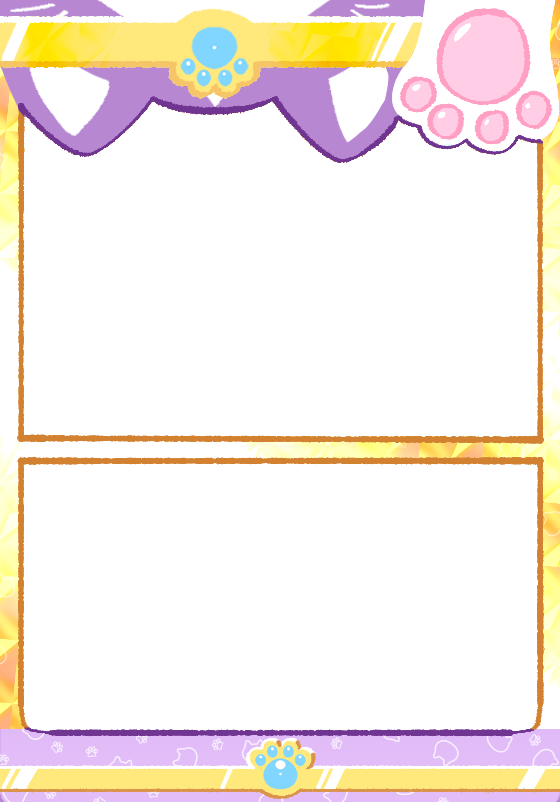
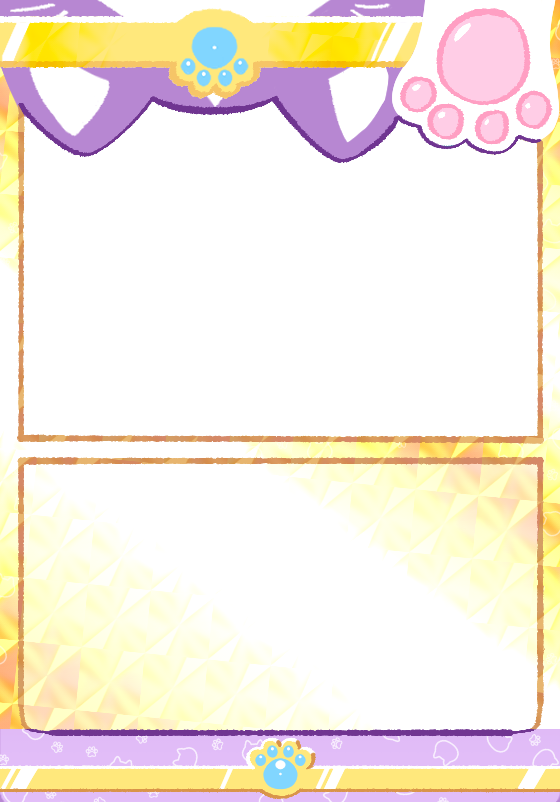
カードフレーム追加（規約・サポート・クリエイター系）+ 99割サブタイプ修正
- 規約/規約レア/サポート/サポートレア/サポートUR/クリエイター/クリエイターレアのフレーム追加
- エンチャントレア・クリーチャーレアのフレーム修正版適用
- cards.html全カードにフレーム反映
- client.jsにフレーム選択ロジック追加
- 99割のsubtype: ['規約']→['サポート']に修正

Changed region(s): [[0.0304, 0.1247, 0.9714, 0.9352]]

diff --git a/client/cards.html b/client/cards.html
@@ -344,7 +344,7 @@
 </div>
 
 <div class="card card-support card-framed">
-  <img class="card-frame-img" src="img/card_frame.png">
+  <img class="card-frame-img" src="img/card_frame_support.png">
   <div class="card-frame-name">思考盗聴された！</div>
   <div class="card-frame-cost">0</div>
   <div class="card-frame-art"><img src="img/shiko_touchou.png" style="width:100%;height:100%;object-fit:cover;"></div>
@@ -355,7 +355,7 @@
 </div>
 
 <div class="card card-support card-framed">
-  <img class="card-frame-img" src="img/card_frame.png">
+  <img class="card-frame-img" src="img/card_frame_support.png">
   <div class="card-frame-name">閑話休題</div>
   <div class="card-frame-cost">5</div>
   <div class="card-frame-art"><img src="img/kanwa_kyuudai.png" style="width:100%;height:100%;object-fit:contain;background:#1a1a2e;"></div>
@@ -366,7 +366,7 @@
 </div>
 
 <div class="card card-support card-framed">
-  <img class="card-frame-img" src="img/card_frame.png">
+  <img class="card-frame-img" src="img/card_frame_support_ur.png">
   <div class="card-frame-name">99割間違いない</div>
   <div class="card-frame-cost">9</div>
   <div class="card-frame-art"><img src="img/99wari.png" style="width:100%;height:100%;object-fit:cover;"></div>
@@ -743,7 +743,7 @@
 <div class="card-row">
 
 <div class="card card-support card-framed">
-  <img class="card-frame-img" src="img/card_frame.png">
+  <img class="card-frame-img" src="img/card_frame_creator.png">
   <div class="card-frame-name">サルベド猫</div>
   <div class="card-frame-cost">5</div>
   <div class="card-frame-art"><img src="img/salvado_cat.png" style="width:100%;height:100%;object-fit:cover;"></div>
@@ -754,7 +754,7 @@
 </div>
 
 <div class="card card-support card-framed">
-  <img class="card-frame-img" src="img/card_frame.png">
+  <img class="card-frame-img" src="img/card_frame_creator.png">
   <div class="card-frame-name">まっきーに</div>
   <div class="card-frame-cost">5</div>
   <div class="card-frame-art"><img src="img/makkinii.png" style="width:100%;height:100%;object-fit:cover;"></div>
@@ -765,7 +765,7 @@
 </div>
 
 <div class="card card-support card-framed">
-  <img class="card-frame-img" src="img/card_frame.png">
+  <img class="card-frame-img" src="img/card_frame_creator.png">
   <div class="card-frame-name">あかぽ</div>
   <div class="card-frame-cost">2</div>
   <div class="card-frame-art"><img src="img/akapo.jpg" style="width:100%;height:100%;object-fit:cover;"></div>
@@ -776,7 +776,7 @@
 </div>
 
 <div class="card card-support card-framed">
-  <img class="card-frame-img" src="img/card_frame.png">
+  <img class="card-frame-img" src="img/card_frame_creator.png">
   <div class="card-frame-name">ななせ</div>
   <div class="card-frame-cost">2</div>
   <div class="card-frame-art"><img src="img/nanase.png" style="width:100%;height:100%;object-fit:cover;"></div>
@@ -787,7 +787,7 @@
 </div>
 
 <div class="card card-support card-framed">
-  <img class="card-frame-img" src="img/card_frame.png">
+  <img class="card-frame-img" src="img/card_frame_creator.png">
   <div class="card-frame-name">ごも</div>
   <div class="card-frame-cost">4</div>
   <div class="card-frame-art"><img src="img/gomo.png" style="width:100%;height:100%;object-fit:cover;"></div>
@@ -798,7 +798,7 @@
 </div>
 
 <div class="card card-support card-framed">
-  <img class="card-frame-img" src="img/card_frame.png">
+  <img class="card-frame-img" src="img/card_frame_creator.png">
   <div class="card-frame-name">komi</div>
   <div class="card-frame-cost">1</div>
   <div class="card-frame-art"><img src="img/komi.png" style="width:100%;height:100%;object-fit:cover;"></div>
@@ -809,7 +809,7 @@
 </div>
 
 <div class="card card-support card-framed">
-  <img class="card-frame-img" src="img/card_frame.png">
+  <img class="card-frame-img" src="img/card_frame_creator.png">
   <div class="card-frame-name">山岩ヤシロ</div>
   <div class="card-frame-cost">4</div>
   <div class="card-frame-art"><img src="img/yashiro.png" style="width:100%;height:100%;object-fit:cover;"></div>
@@ -820,7 +820,7 @@
 </div>
 
 <div class="card card-support card-framed">
-  <img class="card-frame-img" src="img/card_frame.png">
+  <img class="card-frame-img" src="img/card_frame_creator.png">
   <div class="card-frame-name">かとりーな</div>
   <div class="card-frame-cost">4</div>
   <div class="card-frame-art"><img src="img/katorina.png" style="width:100%;height:100%;object-fit:cover;"></div>
@@ -831,7 +831,7 @@
 </div>
 
 <div class="card card-support card-framed">
-  <img class="card-frame-img" src="img/card_frame.png">
+  <img class="card-frame-img" src="img/card_frame_creator.png">
   <div class="card-frame-name">坂街透</div>
   <div class="card-frame-cost">3</div>
   <div class="card-frame-art"><img src="img/sakamachi.png" style="width:100%;height:100%;object-fit:cover;"></div>
@@ -842,7 +842,7 @@
 </div>
 
 <div class="card card-support card-framed">
-  <img class="card-frame-img" src="img/card_frame.png">
+  <img class="card-frame-img" src="img/card_frame_creator.png">
   <div class="card-frame-name">ひかる</div>
   <div class="card-frame-cost">2</div>
   <div class="card-frame-art"><img src="img/hikaru.png" style="width:100%;height:100%;object-fit:cover;"></div>
@@ -853,7 +853,7 @@
 </div>
 
 <div class="card card-support card-framed">
-  <img class="card-frame-img" src="img/card_frame.png">
+  <img class="card-frame-img" src="img/card_frame_creator.png">
   <div class="card-frame-name">おゆち</div>
   <div class="card-frame-cost">1</div>
   <div class="card-frame-art"><img src="img/oyuchi.png" style="width:100%;height:100%;object-fit:cover;"></div>
@@ -864,7 +864,7 @@
 </div>
 
 <div class="card card-support card-framed">
-  <img class="card-frame-img" src="img/card_frame.png">
+  <img class="card-frame-img" src="img/card_frame_creator.png">
   <div class="card-frame-name">NARI</div>
   <div class="card-frame-cost">2</div>
   <div class="card-frame-art"><img src="img/nari.png" style="width:100%;height:100%;object-fit:cover;"></div>
@@ -875,7 +875,7 @@
 </div>
 
 <div class="card card-support card-framed">
-  <img class="card-frame-img" src="img/card_frame.png">
+  <img class="card-frame-img" src="img/card_frame_creator.png">
   <div class="card-frame-name">愛つばめ</div>
   <div class="card-frame-cost">3</div>
   <div class="card-frame-art"><img src="img/ai_tsubame.png" style="width:100%;height:100%;object-fit:cover;"></div>
@@ -886,7 +886,7 @@
 </div>
 
 <div class="card card-support card-framed">
-  <img class="card-frame-img" src="img/card_frame.png">
+  <img class="card-frame-img" src="img/card_frame_creator.png">
   <div class="card-frame-name">いちこ</div>
   <div class="card-frame-cost">4</div>
   <div class="card-frame-art"><img src="img/ichiko.png" style="width:100%;height:100%;object-fit:cover;"></div>
@@ -897,7 +897,7 @@
 </div>
 
 <div class="card card-support card-framed">
-  <img class="card-frame-img" src="img/card_frame.png">
+  <img class="card-frame-img" src="img/card_frame_creator.png">
   <div class="card-frame-name">青春詭弁</div>
   <div class="card-frame-cost">5</div>
   <div class="card-frame-art"><img src="img/seishun_kiben.png" style="width:100%;height:100%;object-fit:cover;"></div>
@@ -908,7 +908,7 @@
 </div>
 
 <div class="card card-support card-framed">
-  <img class="card-frame-img" src="img/card_frame.png">
+  <img class="card-frame-img" src="img/card_frame_creator_rare.png">
   <div class="card-frame-name">サルベド猫のやらかし</div>
   <div class="card-frame-cost">6</div>
   <div class="card-frame-art"><img src="img/salvado_cat_yarakashi.jpg" style="width:100%;height:100%;object-fit:cover;"></div>
@@ -929,7 +929,7 @@
 <div class="card-row">
 
 <div class="card card-kiyaku card-framed">
-  <img class="card-frame-img" src="img/card_frame.png">
+  <img class="card-frame-img" src="img/card_frame_kiyaku.png">
   <div class="card-frame-name">動画削除</div>
   <div class="card-frame-cost">3</div>
   <div class="card-frame-art"><img src="img/douga_sakujo.jpg" style="width:100%;height:100%;object-fit:cover;"></div>
@@ -940,7 +940,7 @@
 </div>
 
 <div class="card card-kiyaku card-framed">
-  <img class="card-frame-img" src="img/card_frame.png">
+  <img class="card-frame-img" src="img/card_frame_kiyaku.png">
   <div class="card-frame-name">収益停止</div>
   <div class="card-frame-cost">4</div>
   <div class="card-frame-art"><img src="img/shueki_teishi.jpg" style="width:100%;height:100%;object-fit:cover;"></div>
@@ -951,7 +951,7 @@
 </div>
 
 <div class="card card-kiyaku card-framed">
-  <img class="card-frame-img" src="img/card_frame.png">
+  <img class="card-frame-img" src="img/card_frame_kiyaku.png">
   <div class="card-frame-name">企画ボツ</div>
   <div class="card-frame-cost">4</div>
   <div class="card-frame-art"><img src="img/kikaku_botsu.jpg" style="width:100%;height:100%;object-fit:cover;"></div>
@@ -962,7 +962,7 @@
 </div>
 
 <div class="card card-kiyaku card-framed">
-  <img class="card-frame-img" src="img/card_frame.png">
+  <img class="card-frame-img" src="img/card_frame_kiyaku_rare.png">
   <div class="card-frame-name">チャンネル削除</div>
   <div class="card-frame-cost">6</div>
   <div class="card-frame-art"><img src="img/channel_sakujo.jpg" style="width:100%;height:100%;object-fit:cover;"></div>
@@ -973,7 +973,7 @@
 </div>
 
 <div class="card card-kiyaku card-framed">
-  <img class="card-frame-img" src="img/card_frame.png">
+  <img class="card-frame-img" src="img/card_frame_kiyaku.png">
   <div class="card-frame-name">動画編集</div>
   <div class="card-frame-cost">2</div>
   <div class="card-frame-art"><img src="img/douga_henshuu.jpg" style="width:100%;height:100%;object-fit:cover;"></div>
@@ -984,7 +984,7 @@
 </div>
 
 <div class="card card-kiyaku card-framed">
-  <img class="card-frame-img" src="img/card_frame.png">
+  <img class="card-frame-img" src="img/card_frame_kiyaku.png">
   <div class="card-frame-name">投げ銭</div>
   <div class="card-frame-cost">1</div>
   <div class="card-frame-art"><img src="img/super_chat.jpg" style="width:100%;height:100%;object-fit:cover;"></div>
@@ -995,7 +995,7 @@
 </div>
 
 <div class="card card-kiyaku card-framed">
-  <img class="card-frame-img" src="img/card_frame.png">
+  <img class="card-frame-img" src="img/card_frame_kiyaku.png">
   <div class="card-frame-name">動画復元</div>
   <div class="card-frame-cost">5</div>
   <div class="card-frame-art"><img src="img/douga_fukugen.png" style="width:100%;height:100%;object-fit:cover;"></div>
@@ -1006,7 +1006,7 @@
 </div>
 
 <div class="card card-kiyaku card-framed">
-  <img class="card-frame-img" src="img/card_frame.png">
+  <img class="card-frame-img" src="img/card_frame_kiyaku_rare.png">
   <div class="card-frame-name">インプレッション制限</div>
   <div class="card-frame-cost">7</div>
   <div class="card-frame-art"><img src="img/impression_seigen.jpg" style="width:100%;height:100%;object-fit:cover;"></div>

diff --git a/client/client.js b/client/client.js
@@ -114,10 +114,19 @@ function _buildCardFrameHTML(c, opts) {
   if (pr === 2) cardClass += ' rarity-ur';
   else if (pr === 1) cardClass += ' rarity-r';
 
+  var isKiyaku = c.subtype && c.subtype.includes('規約');
+  var isCreator = c.subtype && c.subtype.includes('クリエイター');
   var frameImg = 'img/card_frame.png';
   if (c.type === 'enchantment' && pr >= 1) frameImg = 'img/card_frame_enchant_rare.png';
   else if (c.type === 'enchantment') frameImg = 'img/card_frame_enchant.png';
   else if (c.type === 'creature' && pr >= 1) frameImg = 'img/card_frame_creature_rare.png';
+  else if (isKiyaku && pr >= 1) frameImg = 'img/card_frame_kiyaku_rare.png';
+  else if (isKiyaku) frameImg = 'img/card_frame_kiyaku.png';
+  else if (isCreator && pr >= 1) frameImg = 'img/card_frame_creator_rare.png';
+  else if (isCreator) frameImg = 'img/card_frame_creator.png';
+  else if (c.type === 'support' && pr === 2) frameImg = 'img/card_frame_support_ur.png';
+  else if (c.type === 'support' && pr >= 1) frameImg = 'img/card_frame_support_rare.png';
+  else if (c.type === 'support') frameImg = 'img/card_frame_support.png';
   var h = '<div class="' + cardClass + ' card-framed">';
   h += '<img class="card-frame-img" src="' + frameImg + '">';
   h += '<div class="card-frame-name">' + c.name + '</div>';

diff --git a/shared/cards.js b/shared/cards.js
@@ -40,7 +40,7 @@ const CARD_DB=[
 {id:'kanwa_kyuudai',art:'img/kanwa_kyuudai.png',artStyle:'object-fit:contain;background:#1a1a2e;',speed:'instant',name:'閑話休題',type:'support',subtype:['サポート'],cost:5,abilities:['all_tap'],text:'割り込み/全投稿キャラタップ',copies:2},
 {id:'salvado_cat_yarakashi',art:'img/salvado_cat_yarakashi.jpg',speed:'sorcery',name:'サルベド猫のやらかし',type:'support',subtype:['クリエイター','管理者'],cost:6,abilities:['destroy_no_regen'],text:'打ち消し不可/確定除去(蘇生不可)',copies:1},
 {id:'ark',art:'img/ark.png',artStyle:'object-position:center 30%;',name:'魔王の血族 アーク',type:'creature',subtype:['人間','魔王','主人公'],cost:8,power:500,toughness:500,abilities:['debuff_opp'],text:'相手全体-100/-100',hero:true,copies:1},
-{id:'99wari',art:'img/99wari.png',speed:'sorcery',name:'99割間違いない',type:'support',subtype:['規約'],cost:9,abilities:['99wari'],text:'LP900支払い/相手全投稿キャラ破壊+相手手札全捨て',copies:1},
+{id:'99wari',art:'img/99wari.png',speed:'sorcery',name:'99割間違いない',type:'support',subtype:['サポート'],cost:9,abilities:['99wari'],text:'LP900支払い/相手全投稿キャラ破壊+相手手札全捨て',copies:1},
 {id:'imouto',art:'img/imouto.png',name:'妹系ヒロイン',type:'creature',subtype:['人間'],cost:1,power:100,toughness:100,abilities:['haste'],text:'俊足',copies:2},
 {id:'katorina',art:'img/katorina.png',speed:'sorcery',name:'かとりーな',type:'support',subtype:['クリエイター','イラストレーター'],cost:4,abilities:['create_token_v'],text:'Vトークン2体生成',flavor:'おつりーな、ごきげんよう！ばいばーい！',copies:2},
 {id:'akapo',art:'img/akapo.jpg',speed:'instant',name:'あかぽ',type:'support',subtype:['クリエイター','イラストレーター'],cost:2,abilities:['buff_power_target'],text:'割り込み/味方1体+500/+0',copies:2},